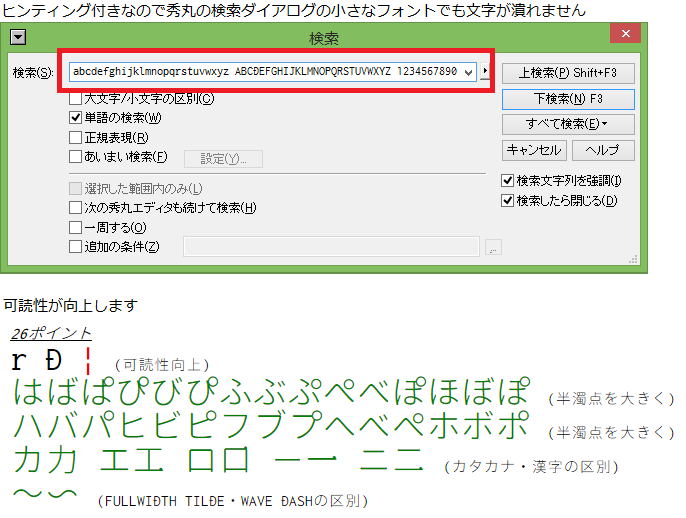
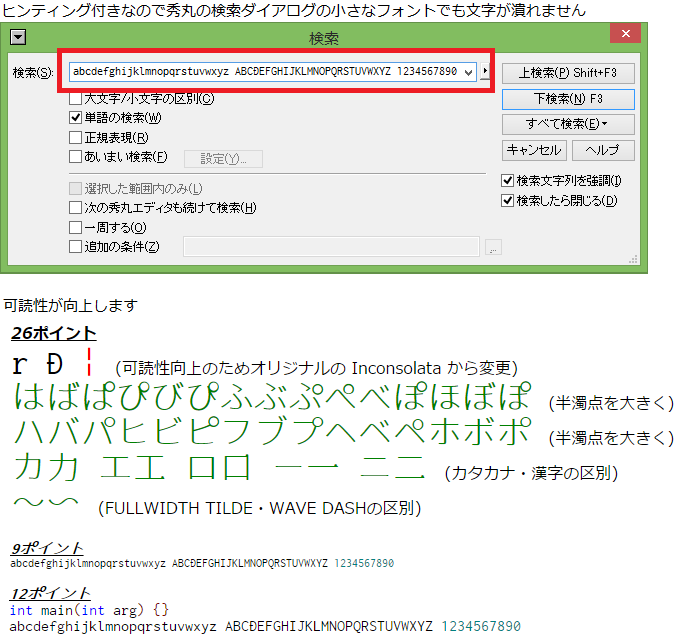
2.005
2.005

Changed region(s): [[0.0, 0.0, 1.0, 1.0], [0.6533, 0.8958, 0.7467, 0.9266], [0.5911, 0.8958, 0.6222, 0.9266]]

diff --git a/Source/sample.html b/Source/sample.html
@@ -48,17 +48,17 @@ abcdefghijklmnopqrstuvwxyz ABCDEFGHIJKLMNOPQRSTUVWXYZ <span style='color:teal'>1
 
 <p>
 <div style='font-size:26pt'>
-<span style='font-size:12pt;'><u><b><i>26ポイント</i></b></u></span><br>
+<span style='font-size:12pt;font-family:"Meiryo"'><u><b><i>26ポイント</i></b></u></span><br>
 r D <span style='color:red'>|</span>
-<span style='font-size:12pt'> (可読性向上)</span><br>
+<span style='font-size:12pt;font-family:"Meiryo"'> (可読性向上のためオリジナルの Inconsolata から変更)</span><br>
 <span style='color:green'>はばぱぴびぴふぶぷぺべぽほぼぽ</span>
-<span style='font-size:12pt'> (半濁点を大きく)</span><br>
+<span style='font-size:12pt;font-family:"Meiryo"'> (半濁点を大きく)</span><br>
 <span style='color:green'>ハバパヒビピフブプヘベペホボポ</span>
-<span style='font-size:12pt'> (半濁点を大きく)</span><br>
+<span style='font-size:12pt;font-family:"Meiryo"'> (半濁点を大きく)</span><br>
 <span style='color:green'>カ力 エ工 ロ口 ー一 ニ二</span>
-<span style='font-size:12pt'> (カタカナ・漢字の区別)</span><br>
+<span style='font-size:12pt;font-family:"Meiryo"'> (カタカナ・漢字の区別)</span><br>
 <span style='color:green'>～〜</span>
-<span style='font-size:12pt'> (FULLWIDTH TILDE・WAVE DASHの区別)</span>
+<span style='font-size:12pt;font-family:"Meiryo"'> (FULLWIDTH TILDE・WAVE DASHの区別)</span>
 </div>
 </p>
 

diff --git a/README.md b/README.md
@@ -30,24 +30,25 @@ MyricaM.zip  約9MB   https://github.com/tomokuni/Myrica/raw/master/MyricaM.zip
 ![Font Image](/Source/myrica_FontImage.png)  
 
 
+
 ## フォント構成  
 
 * ### Myrica.ttc
-　　　源真ゴシックをベースとした以下の３フォントをパッケージしたファイルです。  
-　　　・Myrica M
+　　　ASCII文字は Inconsolata、それ以外の文字は 源真ゴシック をベースとした以下の３フォントをパッケージしたファイルです。  
+　　　・Myrica M  
 　　　　等幅フォントです。プログラミング用に作成しました。  
-　　　・Myrica P
+　　　・Myrica P  
 　　　　なんちゃってプロポーショナルフォントです。  
 　　　　グリフはそのままに、文字の左右スペースを削り、プロポーショナル文字っぽく作成しました。  
 　　　　ただし、数字(0-9)は幅固定しています。  
-　　　・Myrica N
+　　　・Myrica N  
 　　　　幅を狭くしたフォントです。一定幅で多くの文字を表示できるように作成しました。  
 　　　　グリフは、半角文字:68%、全角かな文字:65%、その他の全角文字:60% に縮小し、  
 　　　　文字の左右スペースを削り、プロポーショナル文字っぽく作成しました。  
 　　　　ただし、数字(0-9)は幅固定しています。  
 
 * ### MyricaM.ttc
-　　　Mgen+ をベースとした以下の３フォントをパッケージしたファイルです。  
+　　　ASCII文字は Inconsolata、それ以外の文字は Mgen+ をベースとした以下の３フォントをパッケージしたファイルです。  
 　　　・MyricaM M  
 　　　・MyricaM P  
 　　　・MyricaM N  
@@ -175,11 +176,10 @@ http://mix-mplus-ipa.sourceforge.jp/migu/
 
 ## [MyricaM 改版履歴](MyricaM_改版履歴.md "MyricaM 改版履歴")  
 
-  
-  
-  
-  
 
+
+
+#  
 # ペン字練習 (美漢字ノート)  
 きれいなペン字が書きたい場合はこちら  
 [![PENJI](http://kanji-note.jp/aff/file/image/201502/67b031d38be778cc704efe4756e178e3.png)](http://kanji-note.jp/aff/link.php?id=N0000002&adwares=A0000001)  
